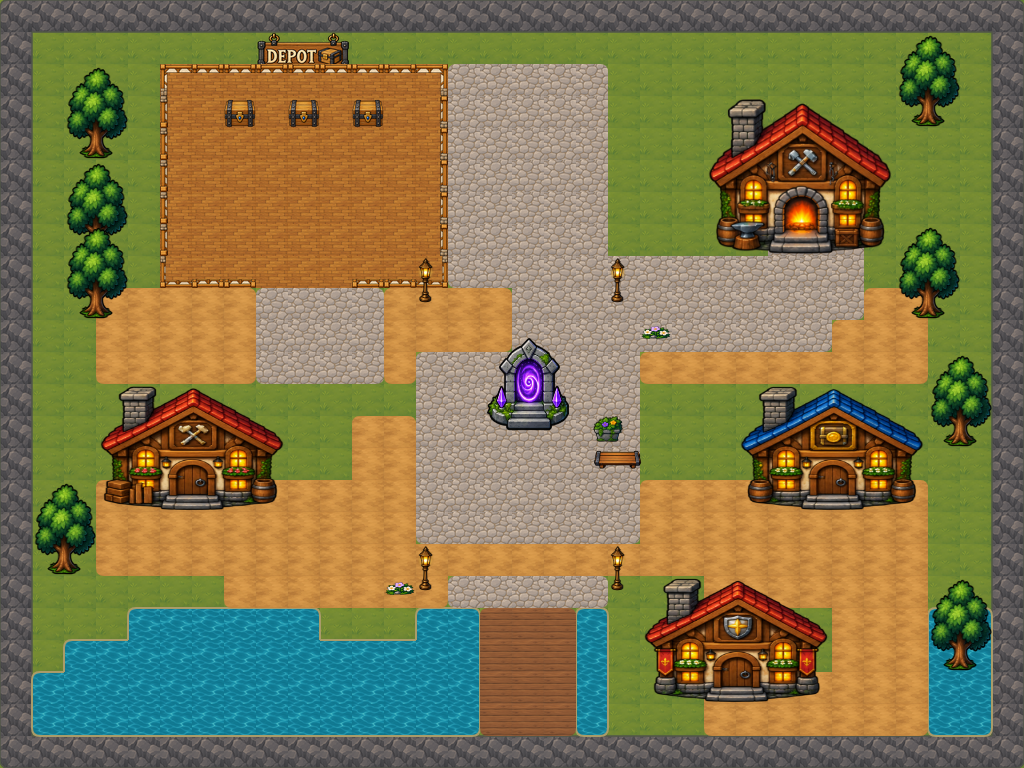
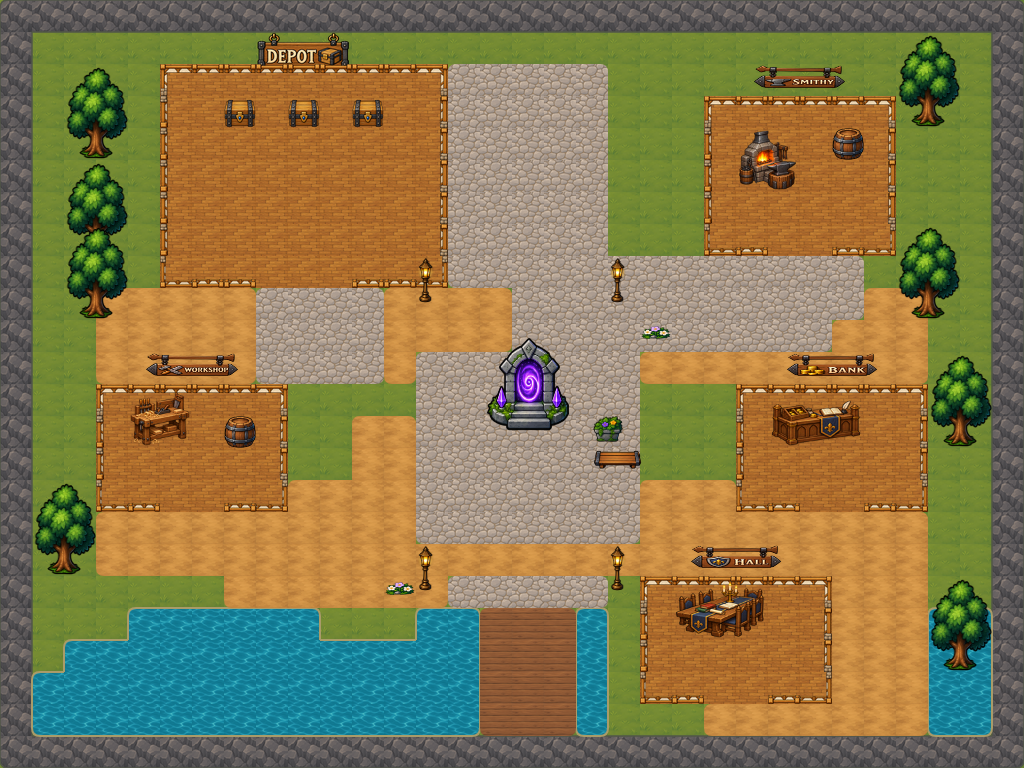
Build all Elderwood interiors from modular wall and floor tiles

Changed region(s): [[0.625, 0.4375, 0.9062, 0.9375], [0.6875, 0.0625, 0.875, 0.3438], [0.0938, 0.4375, 0.2812, 0.6875]]

diff --git a/apps/client/src/main.ts b/apps/client/src/main.ts
@@ -13,7 +13,7 @@ import {SkinAvatar,skinAssets,installSkinAnimations} from './skin-avatar';
 import {setupWardrobe,renderWardrobe} from './wardrobe';
 import {setupAccounts,type AccountUI} from './accounts';
 import {Client,type Room} from 'colyseus.js';
-import {resolveFishingWater,resourceTarget,fishingCastClear,fishingShores,professionLevel,resourceNodes,craftingBench,professionRules,compareGear,supplySellPrice,catalogueSellPrice,droppedSellPrice,gearDefinition,gearStats,gearName,gearSlot,rarityDefinitions,type GearSlot,cosmeticLook,readCosmeticLook,type Cosmetics,depotBoxes,atDepot,gridDirections,gridMap,rootsMap,rootsObjects,stairsFor,availableStair,isLowerFloor,depthsMap,depthsObjects,attributeDefinitions,attributeRules,maxHealth,maxMana,type AttributeId,regionSize,monsters,monsterKind,monsterRegion,combatRegion,cavernsMap,cavernsObjects,woodsMap,woodsObjects,WORLD,equipmentTiers,readAppearance,equipmentItems,equipmentSlots,type EquipmentSlot,elderwoodMap,elderwoodObjects,landmarks,characterSprite,regions,portalFor,canTravel,combat as C,items,merchant,rewards,weapons,classes,classRules,skillRequirement,spells,canLearnSpell,isSpell,type RegionId,type Facing} from '@realm/game-data';
+import {villageBuildings,resolveFishingWater,resourceTarget,fishingCastClear,fishingShores,professionLevel,resourceNodes,craftingBench,professionRules,compareGear,supplySellPrice,catalogueSellPrice,droppedSellPrice,gearDefinition,gearStats,gearName,gearSlot,rarityDefinitions,type GearSlot,cosmeticLook,readCosmeticLook,type Cosmetics,depotBoxes,atDepot,gridDirections,gridMap,rootsMap,rootsObjects,stairsFor,availableStair,isLowerFloor,depthsMap,depthsObjects,attributeDefinitions,attributeRules,maxHealth,maxMana,type AttributeId,regionSize,monsters,monsterKind,monsterRegion,combatRegion,cavernsMap,cavernsObjects,woodsMap,woodsObjects,WORLD,equipmentTiers,readAppearance,equipmentItems,equipmentSlots,type EquipmentSlot,elderwoodMap,elderwoodObjects,landmarks,characterSprite,regions,portalFor,canTravel,combat as C,items,merchant,rewards,weapons,classes,classRules,skillRequirement,spells,canLearnSpell,isSpell,type RegionId,type Facing} from '@realm/game-data';
 import {inAttackRange,attackPath,sight,move,occupiedCells,pathfind,CombatSimulation,newFighter,Economy,type EconomySnapshot,type Fighter,type Wolf,type CombatEvent,type Point,type Motion,type Input} from '@realm/shared';
 import './style.css';
 import {animatedMonsters,animatedMonster,installMonsterAnimations,playMonster} from './monster-animations';
@@ -251,7 +251,7 @@ class Elderwood extends Phaser.Scene {
  if(illustratedMap){
  for(const object of mapObjects){const sx=mapConfig.worldWidth*64/mapConfig.width,sy=mapConfig.worldHeight*64/mapConfig.height;
  if((this.region==='caverns'||this.region==='caverns-depths')&&(object.key.includes('crystal')||object.key.includes('lantern')))this.add.ellipse((object.x+object.w/2)*sx,(object.y+object.h*.9)*sy+mapConfig.offsetY*64,object.w*sx*1.4,object.h*sy*.35,0x6ddcff,.09).setDepth(-2);
- this.add.image(object.x*sx,object.y*sy+mapConfig.offsetY*64,object.key).setOrigin(0).setDisplaySize(object.w*sx,object.h*sy).setDepth(object.key==='depot-floor'?-10:object.footY*sy+mapConfig.offsetY*64).setData('depotFront',object.key.startsWith('depot-wall')&&object.y===8*48);}
+ this.add.image(object.x*sx,object.y*sy+mapConfig.offsetY*64,object.key).setOrigin(0).setDisplaySize(object.w*sx,object.h*sy).setDepth(object.key==='depot-floor'?-10:object.footY*sy+mapConfig.offsetY*64).setData('buildingFront',/^(depot|village)-wall-/.test(object.key)?villageBuildings.find(b=>object.x>=b.x*48&&object.x<(b.x+b.width)*48&&object.y===(b.y+b.height-1)*48):undefined);}
  }else{
  for(let x=0;x<WORLD.width;x++)for(const y of [0,23])this.tree(x*64+32,y*64+32);
  for(let y=1;y<23;y++)for(const x of [0,31])this.tree(x*64+32,y*64+32);
@@ -386,7 +386,7 @@ class Elderwood extends Phaser.Scene {
  if(this.preview){Object.assign(this.fighter,{x:this.local.x,y:this.local.y,stepX:this.local.stepX,stepY:this.local.stepY,region:this.region});this.sim.tick(Math.min(delta,100)/1000,[['local',this.fighter]]);this.economy.sync('local',this.fighter);this.economy.process(this.sim.kills.splice(0),new Map([['local',this.fighter]]),this.sim.time);const professionResults=this.economy.professions.results.splice(0);for(const result of professionResults){if(result.id==='local'){notice(result.message);document.querySelector('#inventory-feedback')!.textContent=result.message;}}this.bag=this.economy.snapshot('local',this.sim.time);if(professionResults.length&&document.querySelector<HTMLDialogElement>('#inventory-dialog')!.open)this.renderInventory();if(this.fighter.region!==this.region)this.applyTravel(this.fighter.region,{x:this.fighter.x,y:this.fighter.y,stamina:100});for(const event of this.sim.events.splice(0))this.effect(event);}
  if(this.pendingDepot&&atDepot({...this.local,region:this.region},this.pendingDepot))this.openDepot(this.pendingDepot);
  if(document.querySelector<HTMLDialogElement>('#depot-dialog')!.open)this.drawDepot();
- for(const object of this.worldObjects)if(object.getData('depotFront'))(object as Phaser.GameObjects.Image).setAlpha(this.region==='elderwood'&&this.local.x>5&&this.local.x<14&&this.local.y>2&&this.local.y<9?.35:1);
+ for(const object of this.worldObjects){const b=object.getData('buildingFront') as typeof villageBuildings[number]|undefined;if(b)(object as Phaser.GameObjects.Image).setAlpha(this.region==='elderwood'&&this.local.x>b.x&&this.local.x<b.x+b.width&&this.local.y>b.y&&this.local.y<b.y+b.height?.35:1);}
  if(this.pendingStair&&availableStair(this.local,this.region,this.pendingStair))this.useStairs(this.pendingStair);
  if(this.pendingInteraction){const kind=this.pendingInteraction,target=kind==='portal'?portalFor(this.region):merchant,range=kind==='portal'?portalFor(this.region).radius:merchant.range;if(Math.hypot(this.local.x-target.x,this.local.y-target.y)<=range){this.pendingInteraction=undefined;this.pendingStair=undefined;this.pendingDepot=undefined;this.pendingLoot=undefined;this.pendingResource=undefined;this.pendingWorkbench=false;this.route=[];if(kind==='portal')this.openPortal();else this.openInventory(true);}}
  this.renderCombat(delta);this.renderRewards();

diff --git a/apps/client/map-editor.html b/apps/client/map-editor.html
@@ -11,7 +11,7 @@ async function load(url){if(!images.has(url)){const image=new Image();image.src=
 const select=document.querySelector('#region'),material=document.querySelector('#material'),canvas=document.querySelector('canvas'),ctx=canvas.getContext('2d',{willReadFrequently:true}),status=document.querySelector('#status');let layout=structuredClone(saved),history=[],drawing=false;
 for(const [id,r]of Object.entries(regions))select.add(new Option(r.name,id));['Ground','Path','Stone','Water','Bridge','Wall'].forEach((name,i)=>material.add(new Option(name,i)));
 function cells(){return layout.maps[select.value]?.cells??gridMap(select.value).cells;}
-async function draw(){const region=select.value,map=gridMap(region),atlasUrl=Object.entries(terrain).find(([p])=>p.includes('/'+islandForRegion(region)+'/'))[1],atlas=await load(atlasUrl),data=cells();canvas.width=map.width*32;canvas.height=map.height*32;ctx.imageSmoothingEnabled=false;if(usesConnectedTerrain(region))paintConnectedTerrain(ctx,data,atlas);else for(let y=0;y<map.height;y++)for(let x=0;x<map.width;x++)ctx.drawImage(atlas,data[y][x]*36+2,2,32,32,x*32,y*32,32,32);for(const object of [...map.objects].sort((a,b)=>a.footY-b.footY)){const url=Object.entries(props).find(([p])=>p.endsWith('/'+object.key+'.png'))?.[1];if(url)ctx.drawImage(await load(url),object.x*2/3,object.y*2/3,object.w*2/3,object.h*2/3);}ctx.strokeStyle='#ffffff22';ctx.lineWidth=1;for(let x=0;x<=map.width;x++){ctx.beginPath();ctx.moveTo(x*32,0);ctx.lineTo(x*32,canvas.height);ctx.stroke();}for(let y=0;y<=map.height;y++){ctx.beginPath();ctx.moveTo(0,y*32);ctx.lineTo(canvas.width,y*32);ctx.stroke();}status.textContent=`${map.width} × ${map.height} cells · each terrain image is 32 × 32 pixels`;}
+async function draw(){const region=select.value,map=gridMap(region),atlasUrl=Object.entries(terrain).find(([p])=>p.includes('/'+islandForRegion(region)+'/'))[1],atlas=await load(atlasUrl),data=cells();canvas.width=map.width*32;canvas.height=map.height*32;ctx.imageSmoothingEnabled=false;if(usesConnectedTerrain(region))paintConnectedTerrain(ctx,data,atlas);else for(let y=0;y<map.height;y++)for(let x=0;x<map.width;x++)ctx.drawImage(atlas,data[y][x]*36+2,2,32,32,x*32,y*32,32,32);for(const object of [...map.objects].sort((a,b)=>(a.key==='depot-floor'?-10000:a.footY)-(b.key==='depot-floor'?-10000:b.footY))){const url=Object.entries(props).find(([p])=>p.endsWith('/'+object.key+'.png'))?.[1];if(url)ctx.drawImage(await load(url),object.x*2/3,object.y*2/3,object.w*2/3,object.h*2/3);}ctx.strokeStyle='#ffffff22';ctx.lineWidth=1;for(let x=0;x<=map.width;x++){ctx.beginPath();ctx.moveTo(x*32,0);ctx.lineTo(x*32,canvas.height);ctx.stroke();}for(let y=0;y<=map.height;y++){ctx.beginPath();ctx.moveTo(0,y*32);ctx.lineTo(canvas.width,y*32);ctx.stroke();}status.textContent=`${map.width} × ${map.height} cells · each terrain image is 32 × 32 pixels`;}
 function paint(e){const r=canvas.getBoundingClientRect(),x=Math.floor((e.clientX-r.left)*canvas.width/r.width/32),y=Math.floor((e.clientY-r.top)*canvas.height/r.height/32),map=gridMap(select.value);if(x<1||y<1||x>=map.width-1||y>=map.height-1)return;layout.maps[select.value]??={cells:structuredClone(map.cells)};layout.maps[select.value].cells[y][x]=Number(material.value);draw();}
 canvas.onpointerdown=e=>{history.push(JSON.stringify(layout));drawing=true;canvas.setPointerCapture(e.pointerId);paint(e);};canvas.onpointermove=e=>{if(drawing)paint(e);};canvas.onpointerup=canvas.onpointercancel=()=>drawing=false;select.onchange=draw;document.querySelector('#undo').onclick=()=>{if(history.length)layout=JSON.parse(history.pop());draw();};document.querySelector('#reset').onclick=()=>{history.push(JSON.stringify(layout));delete layout.maps[select.value];draw();};document.querySelector('#export').onclick=()=>{const url=URL.createObjectURL(new Blob([JSON.stringify(layout,null,2)+'\n'],{type:'application/json'})),a=document.createElement('a');a.href=url;a.download='grid-overrides.json';a.click();setTimeout(()=>URL.revokeObjectURL(url),1000);};document.querySelector('#import').onchange=async e=>{try{const parsed=JSON.parse(await e.target.files[0].text());if(parsed.version!==2||!parsed.maps)throw Error('Expected a version-2 grid file');for(const [region,map]of Object.entries(parsed.maps)){if(!Object.hasOwn(regions,region))throw Error('Unknown map');const base=gridMap(region);if(map.cells?.length!==base.height||map.cells.some(row=>row.length!==base.width||row.some(n=>!Number.isInteger(n)||n<0||n>5)))throw Error('Invalid cells');}history.push(JSON.stringify(layout));layout=parsed;draw();}catch(error){status.textContent=error.message;}};draw();
 </script></html>

diff --git a/packages/game-data/src/grid-world.ts b/packages/game-data/src/grid-world.ts
@@ -1,3 +1,4 @@
+import {villageBuildings} from './village-buildings';
 import {woodsGridEncounters} from './woods-grid-spawns';
 import {depotBoxes} from './depot';
 import overrides from './grid-overrides.json';
@@ -24,18 +25,24 @@ export function gridMap(region:string):GridMap{
   // Short routes lead to each service; the central square remains unobstructed.
   path([[17,9],[24,9],[25,8]],2);path([[10,10],[9,10],[9,9]],2);
   path([[8,17],[12,17],[12,14],[14,14]]);path([[19,16],[22,16],[25,17]]);
-  // A roofless Depot is part of the same village grid, with a three-cell entrance.
-  rect(5,2,9,7,4);
-  for(let y=2;y<=8;y++)for(let x=5;x<=13;x++)prop('depot-floor',x,y,1,1);
-  for(let x=6;x<=12;x++){prop('depot-wall-n',x,2,1,1);if(x<8||x>10)prop('depot-wall-s',x,8,1,1);}
-  for(let y=3;y<=7;y++){prop('depot-wall-w',5,y,1,1);prop('depot-wall-e',13,y,1,1);}
-  for(const [key,x,y]of [['nw',5,2],['ne',13,2],['sw',5,8],['se',13,8]] as const)prop(`depot-wall-${key}`,x,y,1,1);
-  // Walls occupy boundaries, leaving the floor cell beside each wall usable.
-  for(let y=2;y<=8;y++){edges.add(`v:5,${y}`);edges.add(`v:14,${y}`);}
-  for(let x=5;x<=13;x++){edges.add(`h:${x},2`);if(x<8||x>10)edges.add(`h:${x},9`);}
+  // Every village building is assembled from the same edge-aligned tile kit.
+  for(const building of villageBuildings){
+   const {x,y,width:w,height:h,door,doorWidth}=building,prefix=building.id==='depot'?'depot':'village';
+   const doorway=(column:number)=>column>=x+door&&column<x+door+doorWidth;
+   rect(x,y,w,h,4);
+   for(let row=y;row<y+h;row++)for(let column=x;column<x+w;column++)prop('depot-floor',column,row,1,1);
+   for(let column=x+1;column<x+w-1;column++){prop(`${prefix}-wall-n`,column,y,1,1);if(!doorway(column))prop(`${prefix}-wall-s`,column,y+h-1,1,1);}
+   for(let row=y+1;row<y+h-1;row++){prop(`${prefix}-wall-w`,x,row,1,1);prop(`${prefix}-wall-e`,x+w-1,row,1,1);}
+   for(const [corner,cx,cy]of [['nw',x,y],['ne',x+w-1,y],['sw',x,y+h-1],['se',x+w-1,y+h-1]] as const)prop(`${prefix}-wall-${corner}`,cx,cy,1,1);
+   for(let row=y;row<y+h;row++){edges.add(`v:${x},${row}`);edges.add(`v:${x+w},${row}`);}
+   for(let column=x;column<x+w;column++){edges.add(`h:${column},${y}`);if(!doorway(column))edges.add(`h:${column},${y+h}`);}
+   if(building.id!=='depot')prop(`village-sign-${building.id}`,x+1,y-1,w-2,.8);
+  }
   for(const box of depotBoxes)prop('depot-box',box.x-.5,box.y-.5,1,1,1,1);
   prop('depot-sign',8,1,3,1.25);
-  prop('elderwood-blacksmith',22,3,6,5,6,4);prop('elderwood-workshop',3,12,6,4,6,3);prop('elderwood-bank',23,12,6,4,6,3);prop('elderwood-hall',20,18,6,4,6,3);
+  prop('village-forge',23,4,2,2,2,1);prop('elderwood-barrel',26,4,1,1,1,1);
+  prop('village-workbench',4,12,2,2,2,1);prop('elderwood-barrel',7,13,1,1,1,1);
+  prop('village-counter',24,12,3,2,3,1);prop('village-table',21,18,3,2,3,1);
   rect(13,11,7,6,2);prop('elderwood-portal',15,10.5,3,3);
   for(const [x,y]of [[2,2],[2,5],[28,1],[28,7]])prop('elderwood-oak',x,y,2,3,1,1);
   for(const [x,y]of [[2,7],[29,11],[1,15],[29,18]])prop('elderwood-oak',x,y,2,3,1,1);

diff --git a/packages/game-data/src/resource-spawns.ts b/packages/game-data/src/resource-spawns.ts
@@ -1,3 +1,4 @@
+import {villageBuildings} from './village-buildings';
 import {gridMap,gridCrossesWall,gridSpawns} from './grid-world';
 import type {RegionId} from './index';
 export const resourceRegions=['elderwood','woods','caverns','swamp','woods-depths','caverns-depths'] as const;
@@ -8,7 +9,8 @@ export function resourcePositions(region:RegionId,count:number):{x:number;y:numb
  const portal=lower?{x:24.5,y:30.5}:region==='woods'?{x:34.5,y:25.5}:region==='caverns'?{x:32.5,y:40.5}:{x:16.5,y:12.5};
  const avoid=[portal,...(region==='elderwood'?[{x:14.5,y:8.5},{x:20.5,y:10.5}]:[]),...(region==='woods'?[{x:34.5,y:12.5}]:region==='caverns'?[{x:32.5,y:23.5}]:[])];
  const monsters=region==='woods'||region==='caverns'||lower?gridSpawns(region):[];
- const candidates=queue.filter(p=>p.x>2&&p.y>2&&p.x<map.width-2&&p.y<map.height-2&&!(region==='elderwood'&&p.x>=5&&p.x<=14&&p.y>=2&&p.y<=9)&&avoid.every(a=>Math.hypot(a.x-p.x,a.y-p.y)>3)&&monsters.every(a=>Math.hypot(a.x-p.x,a.y-p.y)>1.5)&&map.cells[Math.floor(p.y)][Math.floor(p.x)]!==4&&!map.objects.some(o=>p.x>o.x/48-.5&&p.x<(o.x+o.w)/48+.5&&p.y>o.y/48-.5&&p.y<(o.y+o.h)/48+.5));
+ const entrances=region==='elderwood'?villageBuildings.flatMap(b=>Array.from({length:b.doorWidth},(_,i)=>({x:b.x+b.door+i+.5,y:b.y+b.height+.5}))):[];
+ const candidates=queue.filter(p=>p.x>2&&p.y>2&&p.x<map.width-2&&p.y<map.height-2&&!(region==='elderwood'&&p.x>=5&&p.x<=14&&p.y>=2&&p.y<=9)&&entrances.every(a=>Math.hypot(a.x-p.x,a.y-p.y)>1.5)&&avoid.every(a=>Math.hypot(a.x-p.x,a.y-p.y)>3)&&monsters.every(a=>Math.hypot(a.x-p.x,a.y-p.y)>1.5)&&map.cells[Math.floor(p.y)][Math.floor(p.x)]!==4&&!map.objects.some(o=>p.x>o.x/48-.5&&p.x<(o.x+o.w)/48+.5&&p.y>o.y/48-.5&&p.y<(o.y+o.h)/48+.5));
  // Farthest-point sampling spreads all resource kinds through reachable land,
  // including higher-level varieties on beginner maps. No character level filter.
  const result:{x:number;y:number}[]=[];

diff --git a/tests/village-buildings.test.ts b/tests/village-buildings.test.ts
@@ -1,0 +1,16 @@
+import {test} from 'node:test';
+import assert from 'node:assert/strict';
+import {gridMap,gridCrossesWall,portalFor,villageBuildings,resourceNodes} from '@realm/game-data';
+import {legal,pathfind} from '@realm/shared';
+test('every active Elderwood building has reachable open doors and boundary walls on all four sides',()=>{
+ const map=gridMap('elderwood'),arrival=portalFor('elderwood').arrival;
+ for(const b of villageBuildings){
+  const inside={x:b.x+b.door+.5,y:b.y+b.height-1.5},outside={x:inside.x,y:b.y+b.height+.5};
+  assert.ok(legal(inside),b.id+' interior');assert.ok(legal(outside),b.id+' outside');assert.ok(pathfind(arrival,inside).length,b.id+' reachable from portal');
+  for(const node of resourceNodes.filter(n=>n.region==='elderwood'))for(let offset=0;offset<b.doorWidth;offset++)assert.ok(Math.hypot(node.x-(outside.x+offset),node.y-outside.y)>1.5,b.id+' entrance clear of gathering nodes');
+  for(let offset=0;offset<b.doorWidth;offset++)assert.equal(gridCrossesWall('elderwood',{x:b.x+b.door+offset+.5,y:b.y+b.height-.5},{x:b.x+b.door+offset+.5,y:b.y+b.height+.5}),false,b.id+' doorway');
+  for(const [a,z]of [[{x:b.x-.5,y:b.y+1.5},{x:b.x+.5,y:b.y+1.5}],[{x:b.x+b.width-.5,y:b.y+1.5},{x:b.x+b.width+.5,y:b.y+1.5}],[{x:b.x+1.5,y:b.y-.5},{x:b.x+1.5,y:b.y+.5}],[{x:b.x+.5,y:b.y+b.height-.5},{x:b.x+.5,y:b.y+b.height+.5}]])assert.ok(gridCrossesWall('elderwood',a,z),b.id+' wall');
+  assert.equal(map.objects.filter(o=>o.key==='depot-floor'&&o.x>=b.x*48&&o.x<(b.x+b.width)*48&&o.y>=b.y*48&&o.y<(b.y+b.height)*48).length,b.width*b.height,b.id+' tiled floor');
+ }
+ assert.ok(!map.objects.some(o=>['elderwood-blacksmith','elderwood-workshop','elderwood-bank','elderwood-hall','elderwood-tavern'].includes(o.key)));
+});

diff --git a/packages/game-data/src/index.ts b/packages/game-data/src/index.ts
@@ -1,3 +1,4 @@
+export * from './village-buildings';
 export * from './cosmetics';
 export * from './depot';
 import {gridBlocked} from './grid-world';
@@ -17,10 +18,10 @@ export {elderwoodGround,elderwoodBlocked,elderwoodFootprintBlocked,elderwoodPosi
 export const WORLD = { tile:64, width:32, height:24, speed:4, sprint:1.5, capacity:32, spawn:{x:16.5,y:14.5} };
 export const landmarks=[
  {name:'Depot',x:5,y:2,w:9,h:7,color:0x8b9b79,description:'Walk inside and click a box to use your personal storage.'},
- {name:'Willow & Anvil',x:22,y:3,w:6,h:5,color:0x8b9b79,description:'The village blacksmith. Interiors are not open yet.'},
- {name:'The Makers’ Workshop',x:3,y:12,w:6,h:4,color:0x8b9b79,description:'A village landmark. Interiors are not open yet.'},
- {name:'The Copperleaf Bank',x:23,y:12,w:6,h:4,color:0x8b9b79,description:'A village landmark. Interiors are not open yet.'},
- {name:'Adventurers’ Hall',x:20,y:18,w:6,h:4,color:0x8b9b79,description:'A village landmark. Interiors are not open yet.'},
+ {name:'Willow & Anvil',x:22,y:3,w:6,h:5,color:0x8b9b79,description:'Walk inside the village smithy.'},
+ {name:'The Makers’ Workshop',x:3,y:12,w:6,h:4,color:0x8b9b79,description:'Walk inside this village building.'},
+ {name:'The Copperleaf Bank',x:23,y:12,w:6,h:4,color:0x8b9b79,description:'Walk inside this village building.'},
+ {name:'Adventurers’ Hall',x:20,y:18,w:6,h:4,color:0x8b9b79,description:'Walk inside this village building.'},
 ];
 export const regionSize=(region:RegionId)=>isLowerFloor(region)?{width:48,height:36}:region==='woods'?{width:68,height:48}:region==='caverns'?{width:64,height:48}:WORLD;
 export function blocked(x:number,y:number,region:RegionId='elderwood'):boolean{return gridBlocked(region,x,y);}

diff --git a/tests/terrain.test.ts b/tests/terrain.test.ts
@@ -5,8 +5,8 @@ import {legal,pathfind,move} from '@realm/shared';
 test('new village plaza, trader, building entrances and southern bridge are connected',()=>{
  for(const destination of [PORTAL,PORTAL.arrival,merchant,{x:9.5,y:8.5},{x:25.5,y:8.5},{x:6.5,y:16.5},{x:26.5,y:16.5},{x:16.5,y:21.5}]){assert.ok(legal(destination),JSON.stringify(destination));assert.ok(pathfind(WORLD.spawn,destination).length);}
 });
-test('standalone building sprites have solid grid footprints; tree canopies can overhang free cells',()=>{
- const map=gridMap('elderwood');for(const object of map.objects.filter(o=>/tavern|blacksmith|bank|workshop|hall/.test(o.key))){const p={x:object.x/48+1.5,y:(object.y+object.h)/48-.5};assert.equal(legal(p),false,object.key);assert.deepEqual(pathfind(WORLD.spawn,p),[]);}
+test('village furniture has solid footprints while interiors and tree canopies remain walkable',()=>{
+ const counter={x:25.5,y:13.5};assert.equal(legal(counter),false);assert.deepEqual(pathfind(WORLD.spawn,counter),[]);assert.ok(legal({x:25.5,y:14.5}));
  assert.ok(legal({x:3.5,y:2.5}));assert.equal(legal({x:2.5,y:4.5}),false);
 });
 test('water blocks grid walking and sprint, while bridge cells connect both banks',()=>{

diff --git a/packages/game-data/src/village-buildings.ts b/packages/game-data/src/village-buildings.ts
@@ -1,0 +1,8 @@
+/** Same-map, roofless rooms. Walls sit on cell edges; door offsets are south-facing. */
+export const villageBuildings=[
+ {id:'depot',name:'Depot',x:5,y:2,width:9,height:7,door:3,doorWidth:3},
+ {id:'smithy',name:'Smithy',x:22,y:3,width:6,height:5,door:2,doorWidth:2},
+ {id:'workshop',name:'Workshop',x:3,y:12,width:6,height:4,door:2,doorWidth:2},
+ {id:'bank',name:'Bank',x:23,y:12,width:6,height:4,door:2,doorWidth:2},
+ {id:'hall',name:'Hall',x:20,y:18,width:6,height:4,door:2,doorWidth:2},
+] as const;

diff --git a/scripts/extract-village-furniture.py b/scripts/extract-village-furniture.py
@@ -1,0 +1,16 @@
+"""Extract measured transparent gutters; preserve the original painted master."""
+from pathlib import Path
+from PIL import Image
+root=Path(__file__).resolve().parents[1]
+image=Image.open(root/'assets/world/buildings/master.png').convert('RGBA')
+columns=[(0,449),(449,889),(889,1332),(1332,1774)]
+names=[['sign-smithy','sign-workshop','sign-bank','sign-hall'],['forge','workbench','counter','table']]
+for row,(top,bottom) in enumerate([(0,378),(378,887)]):
+ for col,(left,right) in enumerate(columns):
+  part=image.crop((left,top,right,bottom));bounds=part.getchannel('A').point(lambda a:255 if a>12 else 0).getbbox()
+  if not bounds:raise ValueError(names[row][col])
+  part=part.crop(bounds);size=(128,64) if row==0 else (96,96)
+  part.thumbnail((size[0]-8,size[1]-8),Image.Resampling.LANCZOS)
+  canvas=Image.new('RGBA',size);canvas.alpha_composite(part,((size[0]-part.width)//2,size[1]-4-part.height))
+  canvas.save(root/'assets/world/objects'/f'village-{names[row][col]}.png')
+print('Extracted four signs and four furniture sprites with true-alpha padding')

diff --git a/scripts/extract-depot-sprites.py b/scripts/extract-depot-sprites.py
@@ -25,3 +25,8 @@ for row,names in enumerate([['nw','ne','sw','se'],['n','e','s','w']]):
   out.alpha_composite(part.resize(size,Image.Resampling.LANCZOS),(x,y))
   out.save(root/'assets/world/objects'/f'depot-wall-{name}.png')
 print('Extracted four directional L corners and four edge-aligned wall strips')
+
+# Village rooms share the proven four-corner kit; keep Depot texture IDs stable.
+import shutil
+for direction in ['n','e','s','w','nw','ne','sw','se']:
+ shutil.copyfile(root/'assets/world/objects'/f'depot-wall-{direction}.png',root/'assets/world/objects'/f'village-wall-{direction}.png')

diff --git a/docs/elderwood-buildings.md b/docs/elderwood-buildings.md
@@ -1,0 +1,31 @@
+# Elderwood modular buildings
+
+All five active Elderwood buildings now use native 32px floor tiles and a shared
+edge-aligned wall kit. The Smithy, Workshop, Bank and Hall replace their former
+whole-building sprites with roofless, same-map interiors. The Depot keeps its
+existing footprint, three storage boxes, sign and behavior.
+
+`packages/game-data/src/village-buildings.ts` defines each rectangle and its
+south-facing doorway. `grid-world.ts` assembles floors, four distinct L corners,
+four edge strips and authoritative boundary collision from those definitions.
+Doors use two cells (three for the Depot), while wall-adjacent floor cells remain
+usable. The client fades each room's front wall while the player is inside.
+Furniture has grid footprints; doorway approaches stay clear of resource nodes.
+
+Walls reuse the approved Depot timber/plaster artwork. `npm run art:depot` also
+refreshes the eight village wall textures. The original generated signs and
+furniture master is preserved at `assets/world/buildings/master.png`; run
+`python3 scripts/extract-village-furniture.py` to reproduce the padded runtime
+sprites using measured gutters. Original building sprites remain archived in the
+asset folder, but are not placed on the active map.
+
+The new furnishings identify each room: forge/anvil, woodworking bench, banking
+counter and meeting table. Existing crafting and trading interactions keep their
+positions; item storage remains the existing personal Depot system. This change
+does not add a separate banking or crafting economy.
+
+Game rendering, map editor and full-map export draw floors below furniture and
+walls. Tests cover portal-to-interior routes, perimeter collision, open doors,
+solid furniture, and desktop/mobile guest/multiplayer entry and exit. Depot
+storage and resource coverage retain their existing checks. Build and deploy
+both client and server for matching building collision.
